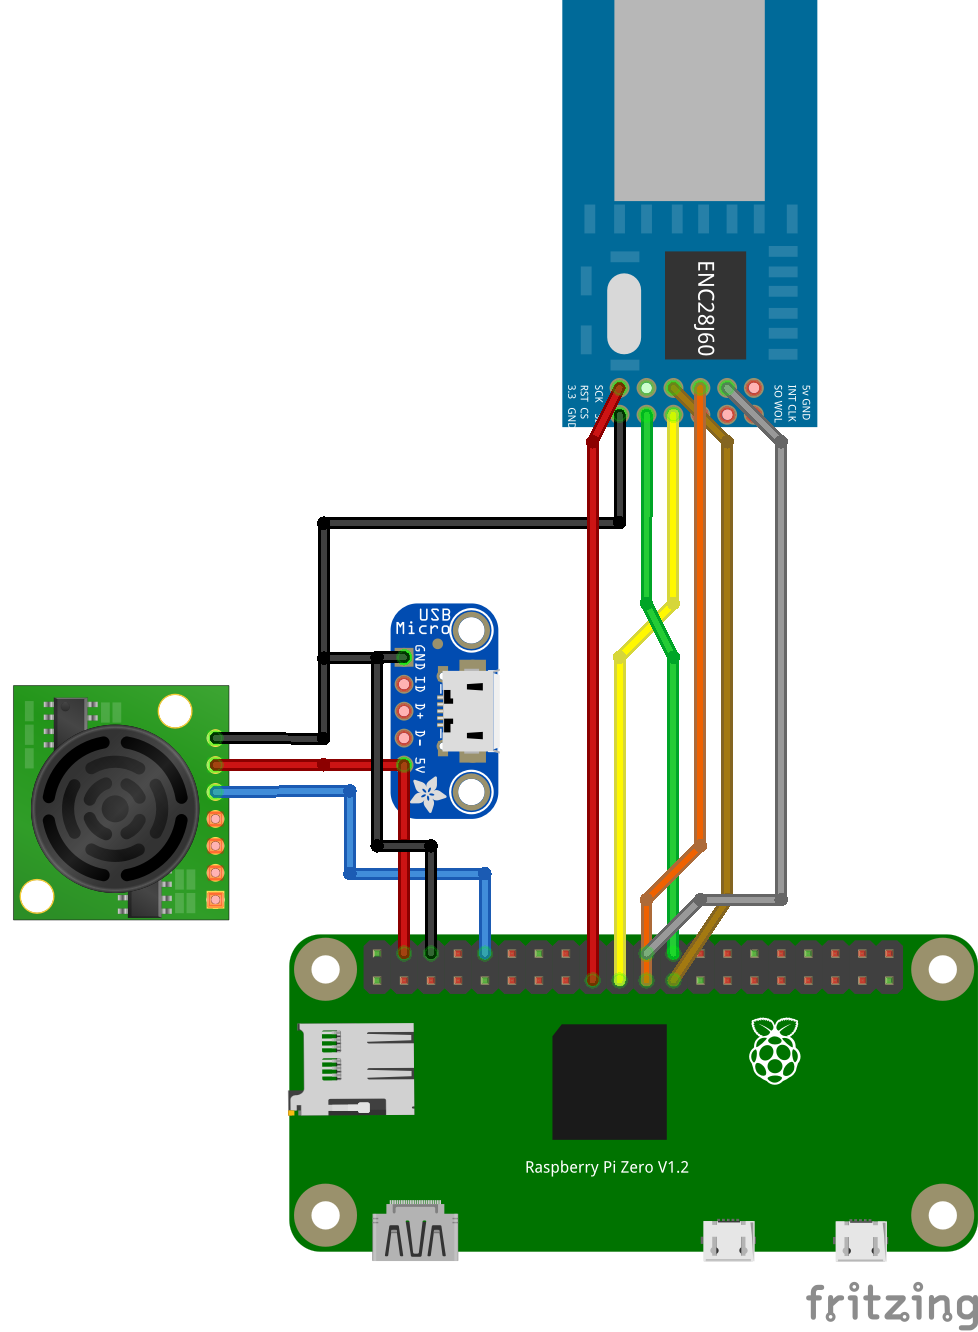
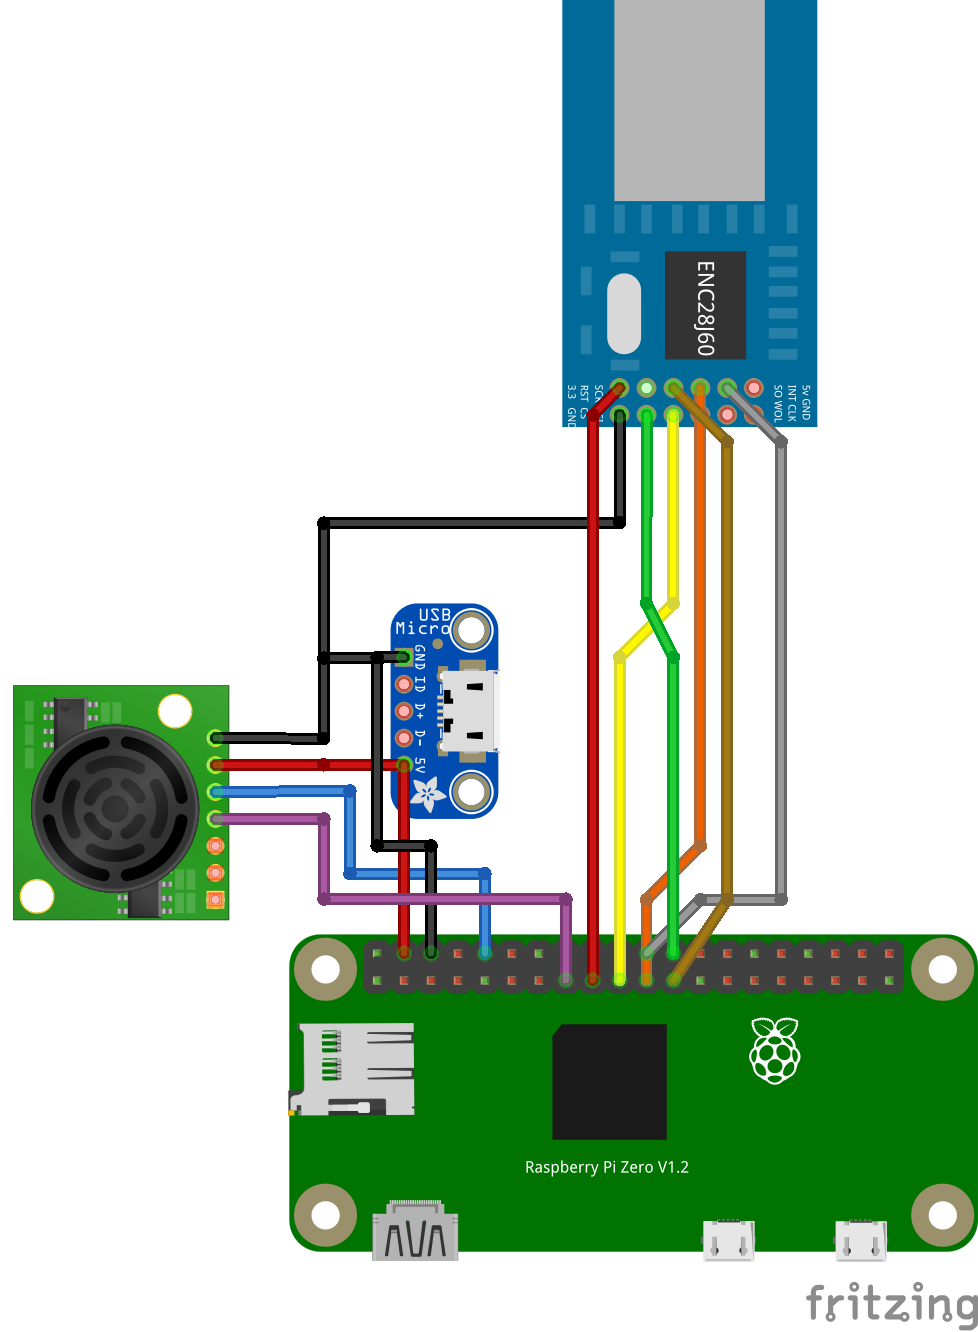
Addition of logic that triggers measurements by setting the MaxSonar pin 4 to high before reading from the serial interface.
Resolves: #1

diff --git a/src/maxsonar.rs b/src/maxsonar.rs
@@ -15,11 +15,35 @@
 extern crate serialport;
 
 use maxsonar::serialport::prelude::*;
+use rppal::gpio::{Gpio, Level, Mode, PullUpDown};
 use std::io;
 use std::str;
+use std::sync::Mutex;
+use std::thread;
 use std::time::Duration;
 
+// GPIO connected to port 4 of the MaxSonar sensor. BCM 22 is located on physical pin 15.
+const GPIO_TRIGGER: u8 = 22;
+
+lazy_static! {
+    static ref GPIO: Mutex<Gpio> = Mutex::new({
+        let mut gpio = Gpio::new().unwrap();
+        gpio.set_pullupdown(GPIO_TRIGGER, PullUpDown::PullDown);
+        gpio.set_mode(GPIO_TRIGGER, Mode::Output);
+        gpio
+    });
+}
+
 pub fn read_distance(port_name: &str) -> Result<u16, String>  {
+    let gpio = GPIO.lock().unwrap();
+    gpio.write(GPIO_TRIGGER, Level::High);
+    thread::sleep(Duration::from_millis(200)); // Wait to be sure to be in free run mode.
+    let distance = read_from_serial(port_name);
+    gpio.write(GPIO_TRIGGER, Level::Low);
+    distance
+}
+
+fn read_from_serial(port_name: &str) -> Result<u16, String> {
     let mut settings: SerialPortSettings = Default::default();
     settings.timeout = Duration::from_millis(100);
     if let Ok(mut port) = serialport::open_with_settings(&port_name, &settings) {

diff --git a/src/main.rs b/src/main.rs
@@ -16,12 +16,15 @@
 #![plugin(rocket_codegen)]
 
 extern crate config;
+extern crate env_logger;
+#[macro_use] extern crate lazy_static;
+#[macro_use] extern crate log;
 extern crate rand;
 extern crate rocket;
-#[macro_use] extern crate log;
-extern crate env_logger;
 extern crate rocket_contrib;
+extern crate rppal;
 #[macro_use] extern crate serde_derive;
+extern crate serialport;
 
 use rocket::State;
 use rocket::response::status::Custom;
